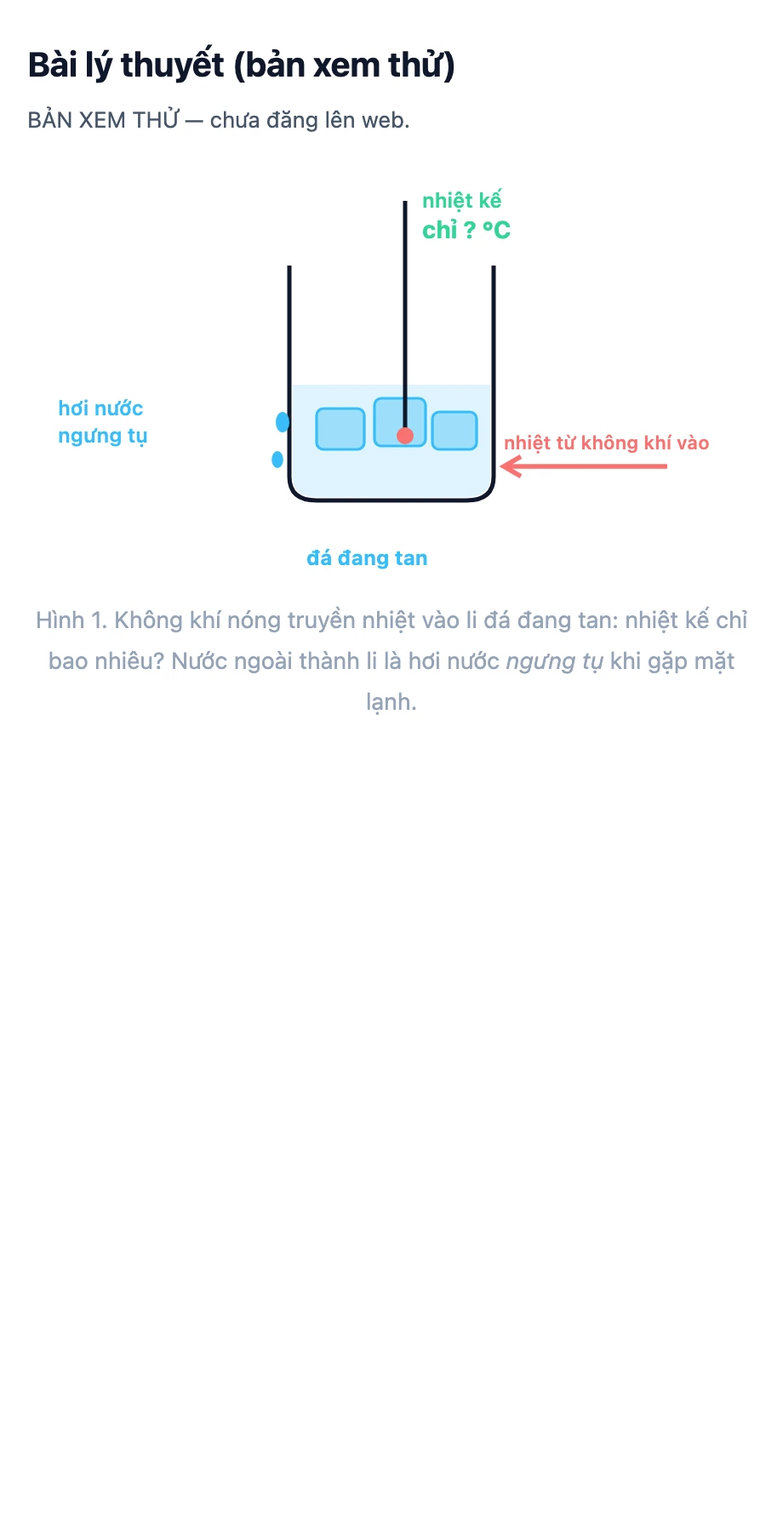
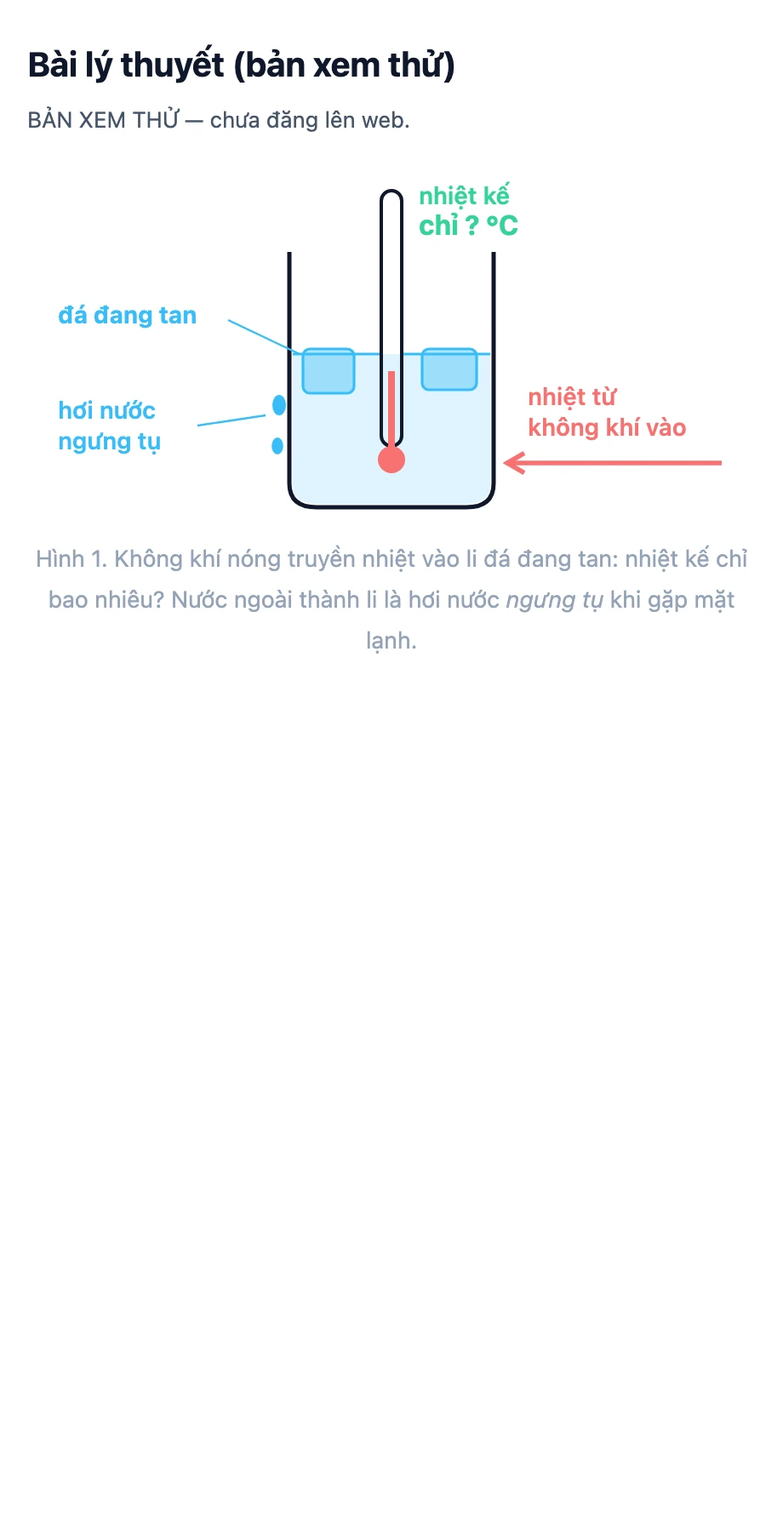
L12 Bài 1 Sự chuyển thể: vẽ lại Hình 1 (li đá: đá nổi, bầu nhiệt kế trong nước, có đường chỉ nhãn, chữ ≥14) và Hình 4 (đồ thị T–t: đoạn rắn dốc gấp 2 đoạn lỏng theo c_đá≈c_nước/2, trục đầu V, chữ ≥14); sửa "Mang về: 5 hình" (liệt kê hình không có) → 4 hình đúng; nguồn 14.11a/b trong src khớp bản đã 

diff --git a/content/lesson-samples/l12-su-chuyen-the/xem-thu/fig-6.html b/content/lesson-samples/l12-su-chuyen-the/xem-thu/fig-6.html
@@ -1,6 +1,6 @@
 <!doctype html><html lang="vi" data-theme="light"><meta charset="utf-8">
 <meta name="viewport" content="width=device-width,initial-scale=1">
-<link rel="stylesheet" href="file:///Users/MAC/Projects/thachlab/.claude/worktrees/distracted-gauss-2d45d4/node_modules/katex/dist/katex.min.css">
+<link rel="stylesheet" href="file:///Users/MAC/Projects/thachlab/.claude/worktrees/chuong-1-lop-12-fb9b32/node_modules/katex/dist/katex.min.css">
 <style>
 :root{color-scheme:light}
 body{margin:0;background:var(--color-bg,#fff);color:var(--color-ink,#0f172a);font:16px/1.75 system-ui,-apple-system,"Segoe UI",sans-serif}
@@ -182,6 +182,10 @@ html[data-theme="light"] .review-board .exam-content img.eq {
 .exam-content .tl-quiz > input:checked + .tl-opt.tl-no { border-color: #f87171; background: rgba(248,113,113,.16); }
 .exam-content .tl-fb { display: none; padding: 10px 14px; border-radius: 10px; }
 .exam-content .tl-fb p { margin: 0; text-align: left; }
+.exam-content .tl-fb p + p, .exam-content .tl-fb ul + p, .exam-content .tl-fb p + ul { margin-top: 6px; }
+.exam-content .tl-fb ul.tl-fb-list { margin: 6px 0 0; padding-left: 1.3em; list-style: disc; text-align: left; }
+.exam-content .tl-fb ul.tl-fb-list > li { margin: 0 0 4px; padding-left: 2px; }
+.exam-content .tl-fb ul.tl-fb-list > li::marker { color: currentColor; }
 .exam-content .tl-fb--ok { background: rgba(52,211,153,.14); }
 .exam-content .tl-fb--no { background: rgba(248,113,113,.12); }
 .exam-content .tl-quiz:has(input:checked + .tl-ok) > .tl-fb--ok { display: block; }
@@ -288,6 +292,33 @@ html[data-theme="light"] .exam-content .tl-sim, html[data-theme="light"] .exam-c
 html[data-theme="light"] .exam-content .tl-box--video .tl-label { color: #6d28d9; }
 .exam-content .tl-video { position: relative; width: 100%; aspect-ratio: 16 / 9; margin: 0 0 10px; border-radius: 8px; overflow: hidden; background: #000; }
 .exam-content .tl-video iframe { position: absolute; inset: 0; width: 100%; height: 100%; border: 0; }
+/* Clip thí nghiệm tự dựng 9:16 (chen-video-thi-nghiem.mts): khung DỌC thay vì ép vào 16:9 (hết hai dải đen),
+   tên thí nghiệm là tiêu đề, nhãn "Video thí nghiệm" chỉ là dòng phụ. Màn hẹp: xếp chồng, video rộng tối đa 340px
+   (cao ~600px, vừa một màn điện thoại — D1). Màn ≥640px: video cột trái, chữ cột phải (B1, N1). */
+.exam-content .tl-box--video:has(> .tl-video--doc) { display: grid; grid-template-columns: minmax(0, 1fr); align-items: start; column-gap: 20px; }
+.exam-content .tl-box--video:has(> .tl-video--doc) > .tl-label { margin: 0 0 2px; font-size: 12.5px; font-weight: 700; letter-spacing: .02em; text-transform: uppercase; }
+.exam-content .tl-video-ten { margin: 0 0 12px; font-size: 1.12em; font-weight: 700; line-height: 1.35; color: #f1f5f9; }
+.exam-content .tl-video--doc { aspect-ratio: 9 / 16; width: 100%; max-width: 340px; justify-self: center; margin: 0; border-radius: 12px; box-shadow: 0 6px 20px rgba(2,6,23,.28); }
+.exam-content .tl-video--doc video { display: block; object-fit: contain; }
+.exam-content .tl-video-goi-y { margin: 12px 0 0; padding: 8px 12px; border-left: 3px solid rgba(167,139,250,.6); border-radius: 0 6px 6px 0; background: rgba(167,139,250,.1); font-size: .94em; line-height: 1.5; }
+html[data-theme="light"] .exam-content .tl-video-ten { color: #1e1b4b; }
+html[data-theme="light"] .exam-content .tl-video-goi-y { border-left-color: #7c3aed; background: rgba(124,58,237,.07); }
+/* Khung video tương tác (components/lessons/VideoThiNghiemKhung.tsx, gắn bằng KhungPortals): mount xong mới ẩn hộp
+   tĩnh (label, <video>, "Nhìn vào") và bỏ viền/nền hộp để khung tự có thẻ riêng. Chunk lỗi thì hộp tĩnh còn nguyên. */
+.exam-content .tl-box--khung.tl-khung-on { display: block; padding: 0; border: 0; background: none; box-shadow: none; }
+.exam-content .tl-box--khung.tl-khung-on > :not(.tl-khung-host) { display: none; }
+.exam-content .tl-khung-host ol { list-style: none; margin: 0; padding: 0; }
+.exam-content .tl-khung-host li { margin: 0; padding-left: 0; }
+.exam-content .tl-khung-host li::marker { content: none; }
+.exam-content .tl-khung-host :is(p, h3), .lesson-page .exam-content .tl-khung-host :is(p, h3) { margin: 0; line-height: inherit; } /* .lesson-page đặt `p`/`h3` cùng độ ưu tiên, đứng sau; lề/cỡ riêng của khung đặt inline trong component (CSS không phân lớp thắng tiện ích Tailwind) */
+.exam-content .tl-khung-host button { font: inherit; }
+@media (min-width: 640px) {
+  .exam-content .tl-box--video:has(> .tl-video--doc) { grid-template-columns: minmax(220px, 300px) minmax(0, 1fr); grid-template-rows: auto auto 1fr; }
+  .exam-content .tl-box--video:has(> .tl-video--doc) > .tl-video--doc { grid-column: 1; grid-row: 1 / span 3; max-width: none; }
+  .exam-content .tl-box--video:has(> .tl-video--doc) > :not(.tl-video--doc) { grid-column: 2; }
+  .exam-content .tl-box--video:has(> .tl-video--doc) > .tl-label { margin-top: 4px; }
+  .exam-content .tl-video-goi-y { margin-top: 4px; }
+}
 /* Ảnh bìa + nút phát: chỉ nhúng player YouTube khi học sinh bấm (ContentHtml.tsx) —
    trang bài không cõng ~1 MB JS player cho mỗi video mà em không xem. */
 .exam-content .tl-video--facade .tl-video-play { position: absolute; inset: 0; display: block; width: 100%; height: 100%; padding: 0; border: 0; background: #000; cursor: pointer; }
@@ -1409,14 +1440,73 @@ html[data-theme="light"] .class-done-tag.is-fail { color: #b45309; }
   .lesson-page .lesson-toc a, .lesson-rail-back, .lesson-page .lesson-nav--rail .lesson-side-link, .class-rail-item, .class-rail .lesson-rail-back { min-height: 44px; }
 }
 
+/* ============================================================================================
+   MÀN RỘNG ≥ 1280px (27/10/2026): chữ giữ cột ≤ 62 ký tự (C2), còn bảng, mô phỏng, video, hình khổ rộng
+   lan sang khoảng trống bên phải — ngay tại chỗ câu nhắc tới chúng (N8). Rail và vị trí cột chữ không đổi.
+   Mép phải chung của phần lan = 100vw − 72px (trang bài và trang chương cùng mép; chừa nút Báo lỗi nổi ở góc phải). < 1280 không đổi gì.
+   ============================================================================================ */
+.lesson-layout--rail { --wide-bleed: 0px; }
+@media (min-width: 1280px) {
+  /* Cột giữa bắt đầu ở (100vw − 1200)/2 + 24 + 248 + 40, rộng 720 → phần thêm = 50vw − 504, tối đa 320px. */
+  .lesson-layout--rail { --wide-bleed: clamp(0px, calc(50vw - 504px), 320px); }
+  /* Thẻ lý thuyết nới sang phải nhưng vùng chữ bên trong giữ nguyên bề rộng (padding phải nuốt phần nới). */
+  .lesson-page .lesson-section[data-kind="ly_thuyet"] .lesson-block { margin-right: calc(-1 * var(--wide-bleed)); padding-right: calc(36px + var(--wide-bleed)); }
+  /* Chỉ khối media đứng trực tiếp trong mạch bài mới lan; nằm trong hộp (.tl-box, .tl-quiz…) thì theo hộp.
+     Hình .fig vẽ ở khổ 420–460 giữ 420px (phóng to chữ trong hình sẽ to hơn chữ bài); chỉ hình vẽ khổ ≥ 600 lan —
+     liệt kê đúng bề rộng kèm dấu cách để "0 0 60 40" không khớp nhầm; khổ khác thì gắn .fig--wide khi soạn. */
+  .lesson-page .lesson-section[data-kind="ly_thuyet"] .exam-content > :is(.tl-video, iframe, details.tl-details:has(> iframe), .tl-box--khung.tl-khung-on) { width: calc(100% + var(--wide-bleed)); max-width: none; }
+  /* Bảng (ContentHtml bọc mọi <table> trong .table-scroll): chỉ nới khi nội dung cần — bảng ngắn 3 cột vẫn
+     rộng bằng cột chữ như cũ, bảng nhiều cột/câu dài/có ảnh mới lan, tránh ô trống dàn ngang 900px. */
+  .lesson-page .lesson-section[data-kind="ly_thuyet"] .exam-content > .table-scroll { width: max-content; min-width: 100%; max-width: calc(100% + var(--wide-bleed)); }
+  .lesson-page .lesson-section[data-kind="ly_thuyet"] .exam-content > .table-scroll > table { width: auto; min-width: 100%; }
+  .lesson-page .lesson-section[data-kind="ly_thuyet"] .exam-content > figure.fig:is(.fig--wide, :has(> svg:is([viewBox^="0 0 600 "], [viewBox^="0 0 640 "], [viewBox^="0 0 700 "], [viewBox^="0 0 720 "], [viewBox^="0 0 750 "], [viewBox^="0 0 800 "], [viewBox^="0 0 900 "], [viewBox^="0 0 960 "], [viewBox^="0 0 1000 "], [viewBox^="0 0 1200 "]))) { width: min(calc(100% + var(--wide-bleed)), 860px); max-width: none; margin-left: 0; }
+}
+
+/* ============================================================================================
+   CỘT LỀ PHẢI ≥ 1280px (thầy duyệt 27/10/2026, trang mẫu https://claude.ai/artifact/BXikspAiK5RZ9EteMUEc8C).
+   features/lessons/margin-notes.ts chép chú thích số, định nghĩa thuật ngữ và ô "Số cần nhớ" của mỗi đoạn cấp đầu
+   vào <div class="tl-sn"> đặt ngay trước đoạn. ≥ 1280: khối đó float sang phần thẻ đã nới (--wide-bleed), bản gốc
+   trong bài ẩn; < 1280: khối lề ẩn, bài như cũ. Chữ 13,5px màu phụ, kẻ mảnh trái, không nền, không màu nhấn (N1, G1, M3).
+   ============================================================================================ */
+.exam-content .tl-sn { display: none; }
+@media (min-width: 1280px) {
+  /* flow-root chỉ cho mục có ghi chú lề (giữ float trong mục); mục khác không đổi gộp lề so với trước. */
+  .lesson-page .lesson-section[data-kind="ly_thuyet"] .exam-content { --sn-w: min(240px, calc(var(--wide-bleed) + 4px)); }
+  .lesson-page .lesson-section[data-kind="ly_thuyet"] .exam-content:has(> .tl-sn, > details.tl-more > .tl-sn) { display: flow-root; }
+  /* Hộp lề có bề rộng lề âm bằng chính nó → chiếm 0px trong dòng, chữ đoạn văn không bị ép hẹp (kỹ thuật Tufte). */
+  .lesson-page .lesson-section[data-kind="ly_thuyet"] :is(.exam-content, .exam-content > details.tl-more) > .tl-sn { display: grid; gap: 10px; float: right; clear: right; width: var(--sn-w); margin: 4px calc(-1 * (var(--sn-w) + 24px)) 14px 0; border-left: 1px solid var(--lesson-line); padding-left: 12px; color: var(--color-muted); font-size: 13.5px; font-weight: 400; line-height: 1.55; }
+  .lesson-page .lesson-section[data-kind="ly_thuyet"] .exam-content > .tl-sn:has(+ p:hover) { color: var(--color-ink); }
+  .lesson-page .exam-content .tl-sn-n { margin-right: 5px; color: var(--color-muted); font-size: 12px; font-weight: 600; font-variant-numeric: tabular-nums; }
+  .lesson-page .exam-content .tl-sn-item b { color: var(--color-ink); font-weight: 600; }
+  /* Ô số ở lề: mỗi ô một dòng, không khung (cột lề 1280px chỉ ~140px) — vẫn che, bấm nhãn để hiện giá trị (L1). */
+  .lesson-page .exam-content .tl-sn-nums { display: grid; gap: 2px; margin-top: 4px; }
+  .lesson-page .exam-content .tl-sn-nums .tl-num { display: block; min-height: 0; border: 0; border-radius: 0; background: none; padding: 2px 0; }
+  .lesson-page .exam-content .tl-sn-nums .tl-num > summary { display: inline-block; min-height: 28px; padding-top: 4px; color: var(--color-ink); font-size: 13px; line-height: 1.5; text-decoration: underline dotted var(--color-muted); text-underline-offset: 3px; }
+  .lesson-page .exam-content .tl-sn-nums .tl-num > summary::after { content: none; }
+  .lesson-page .exam-content .tl-sn-nums .tl-num > :not(summary) { display: block; font-size: 15px; }
+  /* Bản gốc trong bài: đã có ở lề thì ẩn (mỗi cỡ màn chỉ đúng một bản, trình đọc màn hình không nghe lặp). */
+  .lesson-page .lesson-section[data-kind="ly_thuyet"] .exam-content :is(.tl-nums--sn, .tl-fn--placed, .tl-fns--placed) { display: none; }
+  .lesson-page .lesson-section[data-kind="ly_thuyet"] .exam-content .tl-term--sn > :is(input, .tl-def) { display: none; }
+  .lesson-page .lesson-section[data-kind="ly_thuyet"] .exam-content .tl-term--sn > label { border-bottom-color: var(--color-muted); color: inherit; cursor: default; }
+  /* Số mũ đã có chữ ngay bên lề: không còn là liên kết (đích trong danh sách cuối bài đang ẩn). */
+  .lesson-page .lesson-section[data-kind="ly_thuyet"] .exam-content > .tl-sn + p .tl-fn a { color: var(--color-muted); pointer-events: none; }
+  /* Mốc mục và khối lan rộng bắt đầu dưới ghi chú lề, không bao giờ đè lên nhau. */
+  /* Chỉ trong mục có ghi chú lề (đã flow-root): mục khác có float sẵn của thẻ (nút Thu gọn) sẽ bị đẩy xuống nếu clear. */
+  .lesson-page .lesson-section[data-kind="ly_thuyet"] .exam-content:has(> .tl-sn, > details.tl-more > .tl-sn) > :is(h3, h4, .table-scroll, .tl-video, iframe, details.tl-details:has(> iframe), figure.fig--wide, .tl-box--khung) { clear: right; }
+}
+/* iPad ngang / laptop cảm ứng ≥ 1280: nhãn ô số ở lề đủ đích chạm 44px (D2). */
+@media (min-width: 1280px) and (pointer: coarse) {
+  .lesson-page .exam-content .tl-sn-nums .tl-num > summary { min-height: 44px; padding-top: 11px; }
+}
+
 .exam-content figure.fig{max-width:min(100%,420px);margin:.9rem auto}
 .exam-content figure.fig svg{display:block;width:100%;height:auto}
 .exam-content figure.fig figcaption{margin-top:.35rem;font-size:.85em;color:#94a3b8;text-align:center}
 
 </style>
-<div class="lesson-page"><div class="wrap"><h1>Bài lý thuyết (bản xem thử)</h1><p class="sub">BẢN XEM THỬ — chưa đăng lên web.</p><span class="exam-content"><figure class="fig" data-tl="1"><svg viewBox="0 0 440 244" role="img" aria-label="Đồ thị nhiệt độ theo thời gian khi đun nước đá: đoạn dốc lên, đoạn nằm ngang ở 0 °C, rồi dốc lên tiếp"><defs><marker id="f4-r" viewBox="0 0 10 10" refX="8" refY="5" markerWidth="7" markerHeight="7" orient="auto"><path d="M0,0 L10,5 L0,10 z" fill="#f87171"/></marker><marker id="f4-b" viewBox="0 0 10 10" refX="8" refY="5" markerWidth="7" markerHeight="7" orient="auto"><path d="M0,0 L10,5 L0,10 z" fill="#38bdf8"/></marker><marker id="f4-o" viewBox="0 0 10 10" refX="8" refY="5" markerWidth="7" markerHeight="7" orient="auto"><path d="M0,0 L10,5 L0,10 z" fill="#fb923c"/></marker><marker id="f4-g" viewBox="0 0 10 10" refX="8" refY="5" markerWidth="7" markerHeight="7" orient="auto"><path d="M0,0 L10,5 L0,10 z" fill="#34d399"/></marker></defs><line x1="50" y1="30" x2="50" y2="210" stroke="currentColor" stroke-width="2" opacity="1"/><line x1="50" y1="210" x2="420" y2="210" stroke="currentColor" stroke-width="2" opacity="1"/><text x="20" y="24" fill="currentColor" font-size="12" font-weight="600" text-anchor="start">T (°C)</text><text x="360" y="230" fill="currentColor" font-size="12" font-weight="600" text-anchor="start">t (phút)</text><line x1="50" y1="120" x2="420" y2="120" stroke="#34d399" stroke-width="1.2" stroke-dasharray="5 4" opacity="0.8"/><text x="24" y="124" fill="#34d399" font-size="12" font-weight="700" text-anchor="start">0</text><polyline fill="none" stroke="#38bdf8" stroke-width="2.6" points="60.0,150.0 140.0,120.0 250.0,120.0 400.0,60.0"/><line x1="140" y1="120" x2="140" y2="150" stroke="#f87171" stroke-width="1.2" stroke-dasharray="4 3" opacity="0.9"/><line x1="250" y1="120" x2="250" y2="150" stroke="#f87171" stroke-width="1.2" stroke-dasharray="4 3" opacity="0.9"/><line x1="140" y1="152" x2="250" y2="152" stroke="#f87171" stroke-width="1.6" opacity="1"/><path d="M147,148 L140,152 L147,156" fill="none" stroke="#f87171" stroke-width="1.6"/><path d="M243,148 L250,152 L243,156" fill="none" stroke="#f87171" stroke-width="1.6"/><text x="195" y="170" fill="#f87171" font-size="11" font-weight="700" text-anchor="middle">thời gian nóng chảy</text><text x="56" y="198" fill="#f87171" font-size="11" font-weight="600" text-anchor="start">a: rắn nóng lên</text><text x="150" y="94" fill="#38bdf8" font-size="11" font-weight="700" text-anchor="start">b: đang nóng chảy</text><text x="150" y="110" fill="#38bdf8" font-size="11" font-weight="500" text-anchor="start">nhiệt độ không đổi</text><text x="292" y="58" fill="#34d399" font-size="11" font-weight="700" text-anchor="start">c: lỏng nóng lên</text><circle cx="140" cy="120" r="4" fill="#f87171"/><circle cx="250" cy="120" r="4" fill="#f87171"/></svg><figcaption>Hình 4. Đồ thị nhiệt độ – thời gian khi đun nước đá.</figcaption></figure></span></div></div>
-<script src="file:///Users/MAC/Projects/thachlab/.claude/worktrees/distracted-gauss-2d45d4/node_modules/katex/dist/katex.min.js"></script>
-<script src="file:///Users/MAC/Projects/thachlab/.claude/worktrees/distracted-gauss-2d45d4/node_modules/katex/dist/contrib/auto-render.min.js"></script>
+<div class="lesson-page"><div class="wrap"><h1>Bài lý thuyết (bản xem thử)</h1><p class="sub">BẢN XEM THỬ — chưa đăng lên web.</p><span class="exam-content"><figure class="fig" data-tl="1"><svg viewBox="0 0 440 250" role="img" aria-label="Đồ thị nhiệt độ theo thời gian khi đun nước đá: đoạn dốc lên, đoạn nằm ngang ở 0 °C, rồi dốc lên tiếp"><defs><marker id="f4-r" viewBox="0 0 10 10" refX="8" refY="5" markerWidth="7" markerHeight="7" orient="auto"><path d="M0,0 L10,5 L0,10 z" fill="#f87171"/></marker><marker id="f4-b" viewBox="0 0 10 10" refX="8" refY="5" markerWidth="7" markerHeight="7" orient="auto"><path d="M0,0 L10,5 L0,10 z" fill="#38bdf8"/></marker><marker id="f4-o" viewBox="0 0 10 10" refX="8" refY="5" markerWidth="7" markerHeight="7" orient="auto"><path d="M0,0 L10,5 L0,10 z" fill="#fb923c"/></marker><marker id="f4-g" viewBox="0 0 10 10" refX="8" refY="5" markerWidth="7" markerHeight="7" orient="auto"><path d="M0,0 L10,5 L0,10 z" fill="#34d399"/></marker></defs><line x1="50" y1="215" x2="50" y2="24" stroke="currentColor" stroke-width="2" opacity="1"/><path d="M45.0,30.7 L50.0,22.0 L55.0,30.7" fill="none" stroke="currentColor" stroke-width="2" stroke-linejoin="miter" stroke-miterlimit="10" stroke-linecap="butt"/><line x1="50" y1="215" x2="424" y2="215" stroke="currentColor" stroke-width="2" opacity="1"/><path d="M417.3,210.0 L426.0,215.0 L417.3,220.0" fill="none" stroke="currentColor" stroke-width="2" stroke-linejoin="miter" stroke-miterlimit="10" stroke-linecap="butt"/><text x="60" y="26" fill="currentColor" font-size="14" font-weight="600" text-anchor="start">T (°C)</text><text x="426" y="240" fill="currentColor" font-size="14" font-weight="600" text-anchor="end">t (phút)</text><line x1="50" y1="125" x2="420" y2="125" stroke="#34d399" stroke-width="1.2" stroke-dasharray="5 4" opacity="0.8"/><text x="40" y="130" fill="#34d399" font-size="14" font-weight="700" text-anchor="end">0</text><polyline fill="none" stroke="#38bdf8" stroke-width="2.6" points="60.0,185.0 120.0,125.0 250.0,125.0 400.0,50.0"/><line x1="120" y1="125" x2="120" y2="152" stroke="#f87171" stroke-width="1.2" stroke-dasharray="4 3" opacity="0.9"/><line x1="250" y1="125" x2="250" y2="152" stroke="#f87171" stroke-width="1.2" stroke-dasharray="4 3" opacity="0.9"/><line x1="120" y1="152" x2="250" y2="152" stroke="#f87171" stroke-width="1.6" opacity="1"/><path d="M127,148 L120,152 L127,156" fill="none" stroke="#f87171" stroke-width="1.6"/><path d="M243,148 L250,152 L243,156" fill="none" stroke="#f87171" stroke-width="1.6"/><text x="185" y="174" fill="#f87171" font-size="14" font-weight="700" text-anchor="middle">thời gian nóng chảy</text><text x="72" y="202" fill="#f87171" font-size="14" font-weight="700" text-anchor="start">a: rắn nóng lên</text><text x="125" y="92" fill="#38bdf8" font-size="14" font-weight="700" text-anchor="start">b: đang nóng chảy</text><text x="125" y="110" fill="#38bdf8" font-size="14" font-weight="500" text-anchor="start">nhiệt độ không đổi</text><text x="236" y="56" fill="#34d399" font-size="14" font-weight="700" text-anchor="start">c: lỏng nóng lên</text><circle cx="120" cy="125" r="4" fill="#f87171"/><circle cx="250" cy="125" r="4" fill="#f87171"/></svg><figcaption>Hình 4. Đồ thị nhiệt độ – thời gian khi đun nước đá.</figcaption></figure></span></div></div>
+<script src="file:///Users/MAC/Projects/thachlab/.claude/worktrees/chuong-1-lop-12-fb9b32/node_modules/katex/dist/katex.min.js"></script>
+<script src="file:///Users/MAC/Projects/thachlab/.claude/worktrees/chuong-1-lop-12-fb9b32/node_modules/katex/dist/contrib/auto-render.min.js"></script>
 <script>
 renderMathInElement(document.body,{delimiters:[{left:"$$",right:"$$",display:true},{left:"$",right:"$",display:false}]});
 </script>

diff --git a/content/lesson-samples/l12-su-chuyen-the/xem-thu/fig-1.html b/content/lesson-samples/l12-su-chuyen-the/xem-thu/fig-1.html
@@ -1,6 +1,6 @@
 <!doctype html><html lang="vi" data-theme="light"><meta charset="utf-8">
 <meta name="viewport" content="width=device-width,initial-scale=1">
-<link rel="stylesheet" href="file:///Users/MAC/Projects/thachlab/.claude/worktrees/distracted-gauss-2d45d4/node_modules/katex/dist/katex.min.css">
+<link rel="stylesheet" href="file:///Users/MAC/Projects/thachlab/.claude/worktrees/chuong-1-lop-12-fb9b32/node_modules/katex/dist/katex.min.css">
 <style>
 :root{color-scheme:light}
 body{margin:0;background:var(--color-bg,#fff);color:var(--color-ink,#0f172a);font:16px/1.75 system-ui,-apple-system,"Segoe UI",sans-serif}
@@ -182,6 +182,10 @@ html[data-theme="light"] .review-board .exam-content img.eq {
 .exam-content .tl-quiz > input:checked + .tl-opt.tl-no { border-color: #f87171; background: rgba(248,113,113,.16); }
 .exam-content .tl-fb { display: none; padding: 10px 14px; border-radius: 10px; }
 .exam-content .tl-fb p { margin: 0; text-align: left; }
+.exam-content .tl-fb p + p, .exam-content .tl-fb ul + p, .exam-content .tl-fb p + ul { margin-top: 6px; }
+.exam-content .tl-fb ul.tl-fb-list { margin: 6px 0 0; padding-left: 1.3em; list-style: disc; text-align: left; }
+.exam-content .tl-fb ul.tl-fb-list > li { margin: 0 0 4px; padding-left: 2px; }
+.exam-content .tl-fb ul.tl-fb-list > li::marker { color: currentColor; }
 .exam-content .tl-fb--ok { background: rgba(52,211,153,.14); }
 .exam-content .tl-fb--no { background: rgba(248,113,113,.12); }
 .exam-content .tl-quiz:has(input:checked + .tl-ok) > .tl-fb--ok { display: block; }
@@ -288,6 +292,33 @@ html[data-theme="light"] .exam-content .tl-sim, html[data-theme="light"] .exam-c
 html[data-theme="light"] .exam-content .tl-box--video .tl-label { color: #6d28d9; }
 .exam-content .tl-video { position: relative; width: 100%; aspect-ratio: 16 / 9; margin: 0 0 10px; border-radius: 8px; overflow: hidden; background: #000; }
 .exam-content .tl-video iframe { position: absolute; inset: 0; width: 100%; height: 100%; border: 0; }
+/* Clip thí nghiệm tự dựng 9:16 (chen-video-thi-nghiem.mts): khung DỌC thay vì ép vào 16:9 (hết hai dải đen),
+   tên thí nghiệm là tiêu đề, nhãn "Video thí nghiệm" chỉ là dòng phụ. Màn hẹp: xếp chồng, video rộng tối đa 340px
+   (cao ~600px, vừa một màn điện thoại — D1). Màn ≥640px: video cột trái, chữ cột phải (B1, N1). */
+.exam-content .tl-box--video:has(> .tl-video--doc) { display: grid; grid-template-columns: minmax(0, 1fr); align-items: start; column-gap: 20px; }
+.exam-content .tl-box--video:has(> .tl-video--doc) > .tl-label { margin: 0 0 2px; font-size: 12.5px; font-weight: 700; letter-spacing: .02em; text-transform: uppercase; }
+.exam-content .tl-video-ten { margin: 0 0 12px; font-size: 1.12em; font-weight: 700; line-height: 1.35; color: #f1f5f9; }
+.exam-content .tl-video--doc { aspect-ratio: 9 / 16; width: 100%; max-width: 340px; justify-self: center; margin: 0; border-radius: 12px; box-shadow: 0 6px 20px rgba(2,6,23,.28); }
+.exam-content .tl-video--doc video { display: block; object-fit: contain; }
+.exam-content .tl-video-goi-y { margin: 12px 0 0; padding: 8px 12px; border-left: 3px solid rgba(167,139,250,.6); border-radius: 0 6px 6px 0; background: rgba(167,139,250,.1); font-size: .94em; line-height: 1.5; }
+html[data-theme="light"] .exam-content .tl-video-ten { color: #1e1b4b; }
+html[data-theme="light"] .exam-content .tl-video-goi-y { border-left-color: #7c3aed; background: rgba(124,58,237,.07); }
+/* Khung video tương tác (components/lessons/VideoThiNghiemKhung.tsx, gắn bằng KhungPortals): mount xong mới ẩn hộp
+   tĩnh (label, <video>, "Nhìn vào") và bỏ viền/nền hộp để khung tự có thẻ riêng. Chunk lỗi thì hộp tĩnh còn nguyên. */
+.exam-content .tl-box--khung.tl-khung-on { display: block; padding: 0; border: 0; background: none; box-shadow: none; }
+.exam-content .tl-box--khung.tl-khung-on > :not(.tl-khung-host) { display: none; }
+.exam-content .tl-khung-host ol { list-style: none; margin: 0; padding: 0; }
+.exam-content .tl-khung-host li { margin: 0; padding-left: 0; }
+.exam-content .tl-khung-host li::marker { content: none; }
+.exam-content .tl-khung-host :is(p, h3), .lesson-page .exam-content .tl-khung-host :is(p, h3) { margin: 0; line-height: inherit; } /* .lesson-page đặt `p`/`h3` cùng độ ưu tiên, đứng sau; lề/cỡ riêng của khung đặt inline trong component (CSS không phân lớp thắng tiện ích Tailwind) */
+.exam-content .tl-khung-host button { font: inherit; }
+@media (min-width: 640px) {
+  .exam-content .tl-box--video:has(> .tl-video--doc) { grid-template-columns: minmax(220px, 300px) minmax(0, 1fr); grid-template-rows: auto auto 1fr; }
+  .exam-content .tl-box--video:has(> .tl-video--doc) > .tl-video--doc { grid-column: 1; grid-row: 1 / span 3; max-width: none; }
+  .exam-content .tl-box--video:has(> .tl-video--doc) > :not(.tl-video--doc) { grid-column: 2; }
+  .exam-content .tl-box--video:has(> .tl-video--doc) > .tl-label { margin-top: 4px; }
+  .exam-content .tl-video-goi-y { margin-top: 4px; }
+}
 /* Ảnh bìa + nút phát: chỉ nhúng player YouTube khi học sinh bấm (ContentHtml.tsx) —
    trang bài không cõng ~1 MB JS player cho mỗi video mà em không xem. */
 .exam-content .tl-video--facade .tl-video-play { position: absolute; inset: 0; display: block; width: 100%; height: 100%; padding: 0; border: 0; background: #000; cursor: pointer; }
@@ -1409,14 +1440,73 @@ html[data-theme="light"] .class-done-tag.is-fail { color: #b45309; }
   .lesson-page .lesson-toc a, .lesson-rail-back, .lesson-page .lesson-nav--rail .lesson-side-link, .class-rail-item, .class-rail .lesson-rail-back { min-height: 44px; }
 }
 
+/* ============================================================================================
+   MÀN RỘNG ≥ 1280px (27/10/2026): chữ giữ cột ≤ 62 ký tự (C2), còn bảng, mô phỏng, video, hình khổ rộng
+   lan sang khoảng trống bên phải — ngay tại chỗ câu nhắc tới chúng (N8). Rail và vị trí cột chữ không đổi.
+   Mép phải chung của phần lan = 100vw − 72px (trang bài và trang chương cùng mép; chừa nút Báo lỗi nổi ở góc phải). < 1280 không đổi gì.
+   ============================================================================================ */
+.lesson-layout--rail { --wide-bleed: 0px; }
+@media (min-width: 1280px) {
+  /* Cột giữa bắt đầu ở (100vw − 1200)/2 + 24 + 248 + 40, rộng 720 → phần thêm = 50vw − 504, tối đa 320px. */
+  .lesson-layout--rail { --wide-bleed: clamp(0px, calc(50vw - 504px), 320px); }
+  /* Thẻ lý thuyết nới sang phải nhưng vùng chữ bên trong giữ nguyên bề rộng (padding phải nuốt phần nới). */
+  .lesson-page .lesson-section[data-kind="ly_thuyet"] .lesson-block { margin-right: calc(-1 * var(--wide-bleed)); padding-right: calc(36px + var(--wide-bleed)); }
+  /* Chỉ khối media đứng trực tiếp trong mạch bài mới lan; nằm trong hộp (.tl-box, .tl-quiz…) thì theo hộp.
+     Hình .fig vẽ ở khổ 420–460 giữ 420px (phóng to chữ trong hình sẽ to hơn chữ bài); chỉ hình vẽ khổ ≥ 600 lan —
+     liệt kê đúng bề rộng kèm dấu cách để "0 0 60 40" không khớp nhầm; khổ khác thì gắn .fig--wide khi soạn. */
+  .lesson-page .lesson-section[data-kind="ly_thuyet"] .exam-content > :is(.tl-video, iframe, details.tl-details:has(> iframe), .tl-box--khung.tl-khung-on) { width: calc(100% + var(--wide-bleed)); max-width: none; }
+  /* Bảng (ContentHtml bọc mọi <table> trong .table-scroll): chỉ nới khi nội dung cần — bảng ngắn 3 cột vẫn
+     rộng bằng cột chữ như cũ, bảng nhiều cột/câu dài/có ảnh mới lan, tránh ô trống dàn ngang 900px. */
+  .lesson-page .lesson-section[data-kind="ly_thuyet"] .exam-content > .table-scroll { width: max-content; min-width: 100%; max-width: calc(100% + var(--wide-bleed)); }
+  .lesson-page .lesson-section[data-kind="ly_thuyet"] .exam-content > .table-scroll > table { width: auto; min-width: 100%; }
+  .lesson-page .lesson-section[data-kind="ly_thuyet"] .exam-content > figure.fig:is(.fig--wide, :has(> svg:is([viewBox^="0 0 600 "], [viewBox^="0 0 640 "], [viewBox^="0 0 700 "], [viewBox^="0 0 720 "], [viewBox^="0 0 750 "], [viewBox^="0 0 800 "], [viewBox^="0 0 900 "], [viewBox^="0 0 960 "], [viewBox^="0 0 1000 "], [viewBox^="0 0 1200 "]))) { width: min(calc(100% + var(--wide-bleed)), 860px); max-width: none; margin-left: 0; }
+}
+
+/* ============================================================================================
+   CỘT LỀ PHẢI ≥ 1280px (thầy duyệt 27/10/2026, trang mẫu https://claude.ai/artifact/BXikspAiK5RZ9EteMUEc8C).
+   features/lessons/margin-notes.ts chép chú thích số, định nghĩa thuật ngữ và ô "Số cần nhớ" của mỗi đoạn cấp đầu
+   vào <div class="tl-sn"> đặt ngay trước đoạn. ≥ 1280: khối đó float sang phần thẻ đã nới (--wide-bleed), bản gốc
+   trong bài ẩn; < 1280: khối lề ẩn, bài như cũ. Chữ 13,5px màu phụ, kẻ mảnh trái, không nền, không màu nhấn (N1, G1, M3).
+   ============================================================================================ */
+.exam-content .tl-sn { display: none; }
+@media (min-width: 1280px) {
+  /* flow-root chỉ cho mục có ghi chú lề (giữ float trong mục); mục khác không đổi gộp lề so với trước. */
+  .lesson-page .lesson-section[data-kind="ly_thuyet"] .exam-content { --sn-w: min(240px, calc(var(--wide-bleed) + 4px)); }
+  .lesson-page .lesson-section[data-kind="ly_thuyet"] .exam-content:has(> .tl-sn, > details.tl-more > .tl-sn) { display: flow-root; }
+  /* Hộp lề có bề rộng lề âm bằng chính nó → chiếm 0px trong dòng, chữ đoạn văn không bị ép hẹp (kỹ thuật Tufte). */
+  .lesson-page .lesson-section[data-kind="ly_thuyet"] :is(.exam-content, .exam-content > details.tl-more) > .tl-sn { display: grid; gap: 10px; float: right; clear: right; width: var(--sn-w); margin: 4px calc(-1 * (var(--sn-w) + 24px)) 14px 0; border-left: 1px solid var(--lesson-line); padding-left: 12px; color: var(--color-muted); font-size: 13.5px; font-weight: 400; line-height: 1.55; }
+  .lesson-page .lesson-section[data-kind="ly_thuyet"] .exam-content > .tl-sn:has(+ p:hover) { color: var(--color-ink); }
+  .lesson-page .exam-content .tl-sn-n { margin-right: 5px; color: var(--color-muted); font-size: 12px; font-weight: 600; font-variant-numeric: tabular-nums; }
+  .lesson-page .exam-content .tl-sn-item b { color: var(--color-ink); font-weight: 600; }
+  /* Ô số ở lề: mỗi ô một dòng, không khung (cột lề 1280px chỉ ~140px) — vẫn che, bấm nhãn để hiện giá trị (L1). */
+  .lesson-page .exam-content .tl-sn-nums { display: grid; gap: 2px; margin-top: 4px; }
+  .lesson-page .exam-content .tl-sn-nums .tl-num { display: block; min-height: 0; border: 0; border-radius: 0; background: none; padding: 2px 0; }
+  .lesson-page .exam-content .tl-sn-nums .tl-num > summary { display: inline-block; min-height: 28px; padding-top: 4px; color: var(--color-ink); font-size: 13px; line-height: 1.5; text-decoration: underline dotted var(--color-muted); text-underline-offset: 3px; }
+  .lesson-page .exam-content .tl-sn-nums .tl-num > summary::after { content: none; }
+  .lesson-page .exam-content .tl-sn-nums .tl-num > :not(summary) { display: block; font-size: 15px; }
+  /* Bản gốc trong bài: đã có ở lề thì ẩn (mỗi cỡ màn chỉ đúng một bản, trình đọc màn hình không nghe lặp). */
+  .lesson-page .lesson-section[data-kind="ly_thuyet"] .exam-content :is(.tl-nums--sn, .tl-fn--placed, .tl-fns--placed) { display: none; }
+  .lesson-page .lesson-section[data-kind="ly_thuyet"] .exam-content .tl-term--sn > :is(input, .tl-def) { display: none; }
+  .lesson-page .lesson-section[data-kind="ly_thuyet"] .exam-content .tl-term--sn > label { border-bottom-color: var(--color-muted); color: inherit; cursor: default; }
+  /* Số mũ đã có chữ ngay bên lề: không còn là liên kết (đích trong danh sách cuối bài đang ẩn). */
+  .lesson-page .lesson-section[data-kind="ly_thuyet"] .exam-content > .tl-sn + p .tl-fn a { color: var(--color-muted); pointer-events: none; }
+  /* Mốc mục và khối lan rộng bắt đầu dưới ghi chú lề, không bao giờ đè lên nhau. */
+  /* Chỉ trong mục có ghi chú lề (đã flow-root): mục khác có float sẵn của thẻ (nút Thu gọn) sẽ bị đẩy xuống nếu clear. */
+  .lesson-page .lesson-section[data-kind="ly_thuyet"] .exam-content:has(> .tl-sn, > details.tl-more > .tl-sn) > :is(h3, h4, .table-scroll, .tl-video, iframe, details.tl-details:has(> iframe), figure.fig--wide, .tl-box--khung) { clear: right; }
+}
+/* iPad ngang / laptop cảm ứng ≥ 1280: nhãn ô số ở lề đủ đích chạm 44px (D2). */
+@media (min-width: 1280px) and (pointer: coarse) {
+  .lesson-page .exam-content .tl-sn-nums .tl-num > summary { min-height: 44px; padding-top: 11px; }
+}
+
 .exam-content figure.fig{max-width:min(100%,420px);margin:.9rem auto}
 .exam-content figure.fig svg{display:block;width:100%;height:auto}
 .exam-content figure.fig figcaption{margin-top:.35rem;font-size:.85em;color:#94a3b8;text-align:center}
 
 </style>
-<div class="lesson-page"><div class="wrap"><h1>Bài lý thuyết (bản xem thử)</h1><p class="sub">BẢN XEM THỬ — chưa đăng lên web.</p><span class="exam-content"><figure class="fig" data-tl="1"><svg viewBox="0 0 420 250" role="img" aria-label="Li nước đá đang tan có cắm nhiệt kế, ngoài thành li có nước ngưng tụ"><defs><marker id="f1-r" viewBox="0 0 10 10" refX="8" refY="5" markerWidth="7" markerHeight="7" orient="auto"><path d="M0,0 L10,5 L0,10 z" fill="#f87171"/></marker><marker id="f1-b" viewBox="0 0 10 10" refX="8" refY="5" markerWidth="7" markerHeight="7" orient="auto"><path d="M0,0 L10,5 L0,10 z" fill="#38bdf8"/></marker><marker id="f1-o" viewBox="0 0 10 10" refX="8" refY="5" markerWidth="7" markerHeight="7" orient="auto"><path d="M0,0 L10,5 L0,10 z" fill="#fb923c"/></marker><marker id="f1-g" viewBox="0 0 10 10" refX="8" refY="5" markerWidth="7" markerHeight="7" orient="auto"><path d="M0,0 L10,5 L0,10 z" fill="#34d399"/></marker></defs><path d="M150 58 L150 182 Q150 196 166 196 L254 196 Q270 196 270 182 L270 58" fill="none" stroke="currentColor" stroke-width="2.5"/><path d="M152 128 L152 182 Q152 194 166 194 L254 194 Q268 194 268 182 L268 128 Z" fill="rgba(56,189,248,.16)" stroke="none"/><rect x="166" y="142" width="28" height="24" rx="4" fill="rgba(56,189,248,.4)" stroke="#38bdf8" stroke-width="1.6"/><rect x="200" y="136" width="30" height="28" rx="4" fill="rgba(56,189,248,.4)" stroke="#38bdf8" stroke-width="1.6"/><rect x="234" y="144" width="26" height="22" rx="4" fill="rgba(56,189,248,.4)" stroke="#38bdf8" stroke-width="1.6"/><text x="160" y="234" fill="#38bdf8" font-size="12" font-weight="700" text-anchor="start">đá đang tan</text><line x1="218" y1="20" x2="218" y2="158" stroke="currentColor" stroke-width="2.5" opacity="1"/><circle cx="218" cy="158" r="5" fill="#f87171"/><text x="228" y="24" fill="#34d399" font-size="12" font-weight="600" text-anchor="start">nhiệt kế</text><text x="228" y="42" fill="#34d399" font-size="14" font-weight="700" text-anchor="start">chỉ ? °C</text><ellipse cx="146" cy="150" rx="4" ry="6" fill="#38bdf8"/><ellipse cx="143" cy="172" rx="3.4" ry="5" fill="#38bdf8"/><text x="14" y="146" fill="#38bdf8" font-size="12" font-weight="600" text-anchor="start">hơi nước</text><text x="14" y="162" fill="#38bdf8" font-size="12" font-weight="600" text-anchor="start">ngưng tụ</text><line x1="372" y1="176" x2="276" y2="176" stroke="#f87171" stroke-width="2.8"/><path d="M286.0,181.8 L276.0,176.0 L286.0,170.2" fill="none" stroke="#f87171" stroke-width="2.8" stroke-linejoin="miter" stroke-miterlimit="10" stroke-linecap="butt"/><text x="276" y="166" fill="#f87171" font-size="11" font-weight="600" text-anchor="start">nhiệt từ không khí vào</text></svg><figcaption>Hình 1. Không khí nóng truyền nhiệt vào li đá đang tan: nhiệt kế chỉ bao nhiêu? Nước ngoài thành li là hơi nước <em>ngưng tụ</em> khi gặp mặt lạnh.</figcaption></figure></span></div></div>
-<script src="file:///Users/MAC/Projects/thachlab/.claude/worktrees/distracted-gauss-2d45d4/node_modules/katex/dist/katex.min.js"></script>
-<script src="file:///Users/MAC/Projects/thachlab/.claude/worktrees/distracted-gauss-2d45d4/node_modules/katex/dist/contrib/auto-render.min.js"></script>
+<div class="lesson-page"><div class="wrap"><h1>Bài lý thuyết (bản xem thử)</h1><p class="sub">BẢN XEM THỬ — chưa đăng lên web.</p><span class="exam-content"><figure class="fig" data-tl="1"><svg viewBox="0 0 420 214" role="img" aria-label="Li nước đá đang tan có cắm nhiệt kế, ngoài thành li có nước ngưng tụ"><defs><marker id="f1-r" viewBox="0 0 10 10" refX="8" refY="5" markerWidth="7" markerHeight="7" orient="auto"><path d="M0,0 L10,5 L0,10 z" fill="#f87171"/></marker><marker id="f1-b" viewBox="0 0 10 10" refX="8" refY="5" markerWidth="7" markerHeight="7" orient="auto"><path d="M0,0 L10,5 L0,10 z" fill="#38bdf8"/></marker><marker id="f1-o" viewBox="0 0 10 10" refX="8" refY="5" markerWidth="7" markerHeight="7" orient="auto"><path d="M0,0 L10,5 L0,10 z" fill="#fb923c"/></marker><marker id="f1-g" viewBox="0 0 10 10" refX="8" refY="5" markerWidth="7" markerHeight="7" orient="auto"><path d="M0,0 L10,5 L0,10 z" fill="#34d399"/></marker></defs><path d="M150 50 L150 186 Q150 200 166 200 L254 200 Q270 200 270 186 L270 50" fill="none" stroke="currentColor" stroke-width="2.5"/><path d="M152 110 L152 186 Q152 198 166 198 L254 198 Q268 198 268 186 L268 110 Z" fill="rgba(56,189,248,.16)" stroke="none"/><line x1="152" y1="110" x2="203" y2="110" stroke="#38bdf8" stroke-width="1.4" opacity="1"/><line x1="217" y1="110" x2="268" y2="110" stroke="#38bdf8" stroke-width="1.4" opacity="1"/><rect x="158" y="107" width="30" height="26" rx="4" fill="rgba(56,189,248,.4)" stroke="#38bdf8" stroke-width="1.6"/><rect x="228" y="107" width="32" height="24" rx="4" fill="rgba(56,189,248,.4)" stroke="#38bdf8" stroke-width="1.6"/><line x1="114" y1="90" x2="156" y2="110" stroke="#38bdf8" stroke-width="1.2" opacity="1"/><text x="14" y="92" fill="#38bdf8" font-size="14" font-weight="700" text-anchor="start">đá đang tan</text><rect x="204" y="14" width="12" height="150" rx="6" fill="none" stroke="currentColor" stroke-width="2"/><line x1="210" y1="120" x2="210" y2="166" stroke="#f87171" stroke-width="4" opacity="1"/><circle cx="210" cy="172" r="8" fill="#f87171"/><text x="226" y="22" fill="#34d399" font-size="14" font-weight="600" text-anchor="start">nhiệt kế</text><text x="226" y="40" fill="#34d399" font-size="16" font-weight="700" text-anchor="start">chỉ ? °C</text><ellipse cx="144" cy="140" rx="4" ry="6" fill="#38bdf8"/><ellipse cx="143" cy="164" rx="3.4" ry="5" fill="#38bdf8"/><line x1="96" y1="152" x2="136" y2="146" stroke="#38bdf8" stroke-width="1.2" opacity="1"/><text x="14" y="148" fill="#38bdf8" font-size="14" font-weight="600" text-anchor="start">hơi nước</text><text x="14" y="166" fill="#38bdf8" font-size="14" font-weight="600" text-anchor="start">ngưng tụ</text><line x1="404" y1="174" x2="278" y2="174" stroke="#f87171" stroke-width="2.8"/><path d="M288.0,179.8 L278.0,174.0 L288.0,168.2" fill="none" stroke="#f87171" stroke-width="2.8" stroke-linejoin="miter" stroke-miterlimit="10" stroke-linecap="butt"/><text x="290" y="140" fill="#f87171" font-size="14" font-weight="600" text-anchor="start">nhiệt từ</text><text x="290" y="158" fill="#f87171" font-size="14" font-weight="600" text-anchor="start">không khí vào</text></svg><figcaption>Hình 1. Không khí nóng truyền nhiệt vào li đá đang tan: nhiệt kế chỉ bao nhiêu? Nước ngoài thành li là hơi nước <em>ngưng tụ</em> khi gặp mặt lạnh.</figcaption></figure></span></div></div>
+<script src="file:///Users/MAC/Projects/thachlab/.claude/worktrees/chuong-1-lop-12-fb9b32/node_modules/katex/dist/katex.min.js"></script>
+<script src="file:///Users/MAC/Projects/thachlab/.claude/worktrees/chuong-1-lop-12-fb9b32/node_modules/katex/dist/contrib/auto-render.min.js"></script>
 <script>
 renderMathInElement(document.body,{delimiters:[{left:"$$",right:"$$",display:true},{left:"$",right:"$",display:false}]});
 </script>

diff --git a/content/lesson-samples/l12-su-chuyen-the/build_figs.py b/content/lesson-samples/l12-su-chuyen-the/build_figs.py
@@ -44,20 +44,27 @@ def wrap(vb, label, body, cap, exp=""):
 
 # ---------------------------------------------------------------- Hình 1: li nước đá
 b = defs("f1")
-b += '<path d="M150 58 L150 182 Q150 196 166 196 L254 196 Q270 196 270 182 L270 58" fill="none" stroke="currentColor" stroke-width="2.5"/>'
-b += '<path d="M152 128 L152 182 Q152 194 166 194 L254 194 Q268 194 268 182 L268 128 Z" fill="rgba(56,189,248,.16)" stroke="none"/>'
-for x, y, w, h in ((166, 142, 28, 24), (200, 136, 30, 28), (234, 144, 26, 22)):
+# thành li + nước (mặt nước y=110); đá nổi, nhô lên khỏi mặt nước
+b += '<path d="M150 50 L150 186 Q150 200 166 200 L254 200 Q270 200 270 186 L270 50" fill="none" stroke="currentColor" stroke-width="2.5"/>'
+b += '<path d="M152 110 L152 186 Q152 198 166 198 L254 198 Q268 198 268 186 L268 110 Z" fill="rgba(56,189,248,.16)" stroke="none"/>'
+b += line(152, 110, 203, 110, BLUE, 1.4) + line(217, 110, 268, 110, BLUE, 1.4)
+for x, y, w, h in ((158, 107, 30, 26), (228, 107, 32, 24)):  # ngập ~87 %
     b += f'<rect x="{x}" y="{y}" width="{w}" height="{h}" rx="4" fill="rgba(56,189,248,.4)" stroke="{BLUE}" stroke-width="1.6"/>'
-b += text(160, 234, "đá đang tan", BLUE, 12, "start", "700")
-b += line(218, 20, 218, 158, "currentColor", 2.5) + dot(218, 158, 5, RED)
-b += text(228, 24, "nhiệt kế", GRN, 12)
-b += text(228, 42, "chỉ ? °C", GRN, 14, "start", "700")
-b += f'<ellipse cx="146" cy="150" rx="4" ry="6" fill="{BLUE}"/>'
-b += f'<ellipse cx="143" cy="172" rx="3.4" ry="5" fill="{BLUE}"/>'
-b += text(14, 146, "hơi nước", BLUE, 12) + text(14, 162, "ngưng tụ", BLUE, 12)
-b += arrow("f1", "r", 372, 176, 276, 176, 3)
-b += text(276, 166, "nhiệt từ không khí vào", RED, 11)
-fig1 = wrap("0 0 420 250", "Li nước đá đang tan có cắm nhiệt kế, ngoài thành li có nước ngưng tụ",
+b += line(114, 90, 156, 110, BLUE, 1.2)
+b += text(14, 92, "đá đang tan", BLUE, 14, "start", "700")
+# nhiệt kế: ống thẳng, bầu nằm trong nước giữa hai viên đá
+b += f'<rect x="204" y="14" width="12" height="150" rx="6" fill="none" stroke="currentColor" stroke-width="2"/>'
+b += line(210, 120, 210, 166, RED, 4) + dot(210, 172, 8, RED)
+b += text(226, 22, "nhiệt kế", GRN, 14)
+b += text(226, 40, "chỉ ? °C", GRN, 16, "start", "700")
+# giọt nước ngưng tụ bám ngoài thành li
+b += f'<ellipse cx="144" cy="140" rx="4" ry="6" fill="{BLUE}"/>'
+b += f'<ellipse cx="143" cy="164" rx="3.4" ry="5" fill="{BLUE}"/>'
+b += line(96, 152, 136, 146, BLUE, 1.2)
+b += text(14, 148, "hơi nước", BLUE, 14) + text(14, 166, "ngưng tụ", BLUE, 14)
+b += arrow("f1", "r", 404, 174, 278, 174, 2.8)
+b += text(290, 140, "nhiệt từ", RED, 14) + text(290, 158, "không khí vào", RED, 14)
+fig1 = wrap("0 0 420 214", "Li nước đá đang tan có cắm nhiệt kế, ngoài thành li có nước ngưng tụ",
             b, "Hình 1. Không khí nóng truyền nhiệt vào li đá đang tan: nhiệt kế chỉ bao nhiêu? Nước ngoài thành li là hơi nước <em>ngưng tụ</em> khi gặp mặt lạnh.")
 
 # ---------------------------------------------------------------- Hình 2: ảnh OpenStax 14.7 (đợt 2, 27/10/2026)
@@ -65,7 +72,7 @@ fig2 = ('<p>Hình 2 đặt ba thể cạnh nhau ở mức phân tử.<sup class=
         '<figure class="fig" data-tl="1"><img src="/assets/openstax/l12-su-chuyen-the/hinh-ba-the-mo-hinh.webp" '
         'alt="Mô hình phân tử của chất rắn, chất lỏng và chất khí, kèm chiều nóng chảy, đông đặc, sôi, ngưng tụ" '
         'loading="lazy" width="875" height="864"><figcaption>Hình 2. Cùng là các phân tử, khác nhau ở <strong>khoảng cách</strong> và <strong>mức trật tự</strong>.<br>'
-        'Rắn: phân tử dao động quanh vị trí cố định, nối bằng "lò xo" liên kết. Lỏng: phân tử chuyển động tự do hơn. Khí: phân tử rất xa nhau, bay thẳng.</figcaption></figure>\n'
+        'Rắn: phân tử dao động quanh vị trí cố định, nối bằng "lò xo" liên kết.<br>Lỏng: phân tử chuyển động tự do hơn.<br>Khí: phân tử rất xa nhau, bay thẳng.</figcaption></figure>\n'
         '<ol class="tl-fns"><li id="tl-fn-1"><strong>Nhãn trong hình:</strong> Solid = rắn · Liquid = lỏng · Gas = khí · Limits of motion = giới hạn dao động · '
         'Energy input = nhận năng lượng · Energy output = toả năng lượng · Melt = nóng chảy · Freeze = đông đặc · Boil = sôi (hoá hơi) · Condense = ngưng tụ.<br>'
         'Hình: OpenStax, College Physics 2e, Hình 14.7 — CC BY‑NC‑SA 4.0 — openstax.org/books/college-physics-2e</li></ol>')
@@ -102,24 +109,25 @@ fig3 = wrap("0 0 440 254", "Vòng chuyển thể: nóng chảy, đông đặc, h
             b, "Hình 3. Bốn quá trình chính đi thành hai cặp ngược chiều. Nét đứt là hai quá trình ít gặp: <strong>thăng hoa</strong> (rắn → hơi) và <strong>ngưng kết</strong> (hơi → rắn).")
 
 # ---------------------------------------------------------------- Hình 4: đồ thị nhiệt độ – thời gian
+# c(nước đá) ≈ 2100, c(nước) ≈ 4180 J/(kg.K): cùng công suất, đoạn rắn dốc gấp ~2 đoạn lỏng (1,0 so với 0,5)
 b = defs("f4")
-b += line(50, 30, 50, 210, "currentColor", 2)      # trục tung
-b += line(50, 210, 420, 210, "currentColor", 2)    # trục hoành
-b += text(20, 24, "T (°C)", "currentColor", 12)
-b += text(360, 230, "t (phút)", "currentColor", 12)
-b += line(50, 120, 420, 120, GRN, 1.2, "5 4", .8)
-b += text(24, 124, "0", GRN, 12, "start", "700")
-b += poly([(60, 150), (140, 120), (250, 120), (400, 60)], BLUE, 2.6)
-b += line(140, 120, 140, 150, RED, 1.2, "4 3", .9)
-b += line(250, 120, 250, 150, RED, 1.2, "4 3", .9)
-b += dbl_h(140, 250, 152, RED, 1.6)
-b += text(195, 170, "thời gian nóng chảy", RED, 11, "middle", "700")
-b += text(56, 198, "a: rắn nóng lên", RED, 11)
-b += text(150, 94, "b: đang nóng chảy", BLUE, 11, "start", "700")
-b += text(150, 110, "nhiệt độ không đổi", BLUE, 11, "start", "500")
-b += text(292, 58, "c: lỏng nóng lên", GRN, 11, "start", "700")
-b += dot(140, 120, 4, RED) + dot(250, 120, 4, RED)
-fig4 = wrap("0 0 440 244", "Đồ thị nhiệt độ theo thời gian khi đun nước đá: đoạn dốc lên, đoạn nằm ngang ở 0 °C, rồi dốc lên tiếp",
+b += line(50, 215, 50, 24, "currentColor", 2) + chevron(50, 22, 0, -1, "currentColor", 2, 10)
+b += line(50, 215, 424, 215, "currentColor", 2) + chevron(426, 215, 1, 0, "currentColor", 2, 10)
+b += text(60, 26, "T (°C)", "currentColor", 14)
+b += text(426, 240, "t (phút)", "currentColor", 14, "end")
+b += line(50, 125, 420, 125, GRN, 1.2, "5 4", .8)
+b += text(40, 130, "0", GRN, 14, "end", "700")
+b += poly([(60, 185), (120, 125), (250, 125), (400, 50)], BLUE, 2.6)
+b += line(120, 125, 120, 152, RED, 1.2, "4 3", .9)
+b += line(250, 125, 250, 152, RED, 1.2, "4 3", .9)
+b += dbl_h(120, 250, 152, RED, 1.6)
+b += text(185, 174, "thời gian nóng chảy", RED, 14, "middle", "700")
+b += text(72, 202, "a: rắn nóng lên", RED, 14, "start", "700")
+b += text(125, 92, "b: đang nóng chảy", BLUE, 14, "start", "700")
+b += text(125, 110, "nhiệt độ không đổi", BLUE, 14, "start", "500")
+b += text(236, 56, "c: lỏng nóng lên", GRN, 14, "start", "700")
+b += dot(120, 125, 4, RED) + dot(250, 125, 4, RED)
+fig4 = wrap("0 0 440 250", "Đồ thị nhiệt độ theo thời gian khi đun nước đá: đoạn dốc lên, đoạn nằm ngang ở 0 °C, rồi dốc lên tiếp",
             b, "Hình 4. Đồ thị nhiệt độ – thời gian khi đun nước đá.")
 
 # ---------------------------------------------------------------- thay vào theory.html
